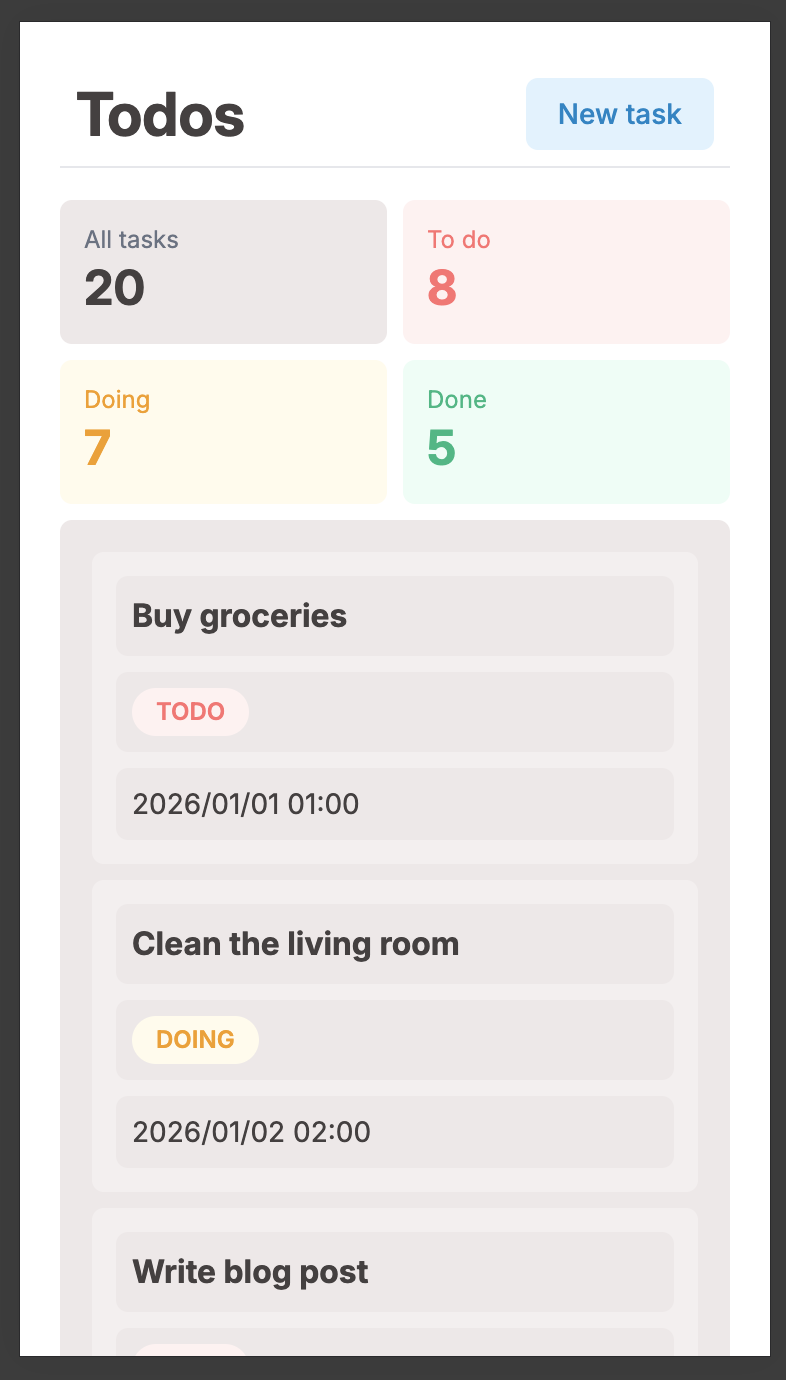
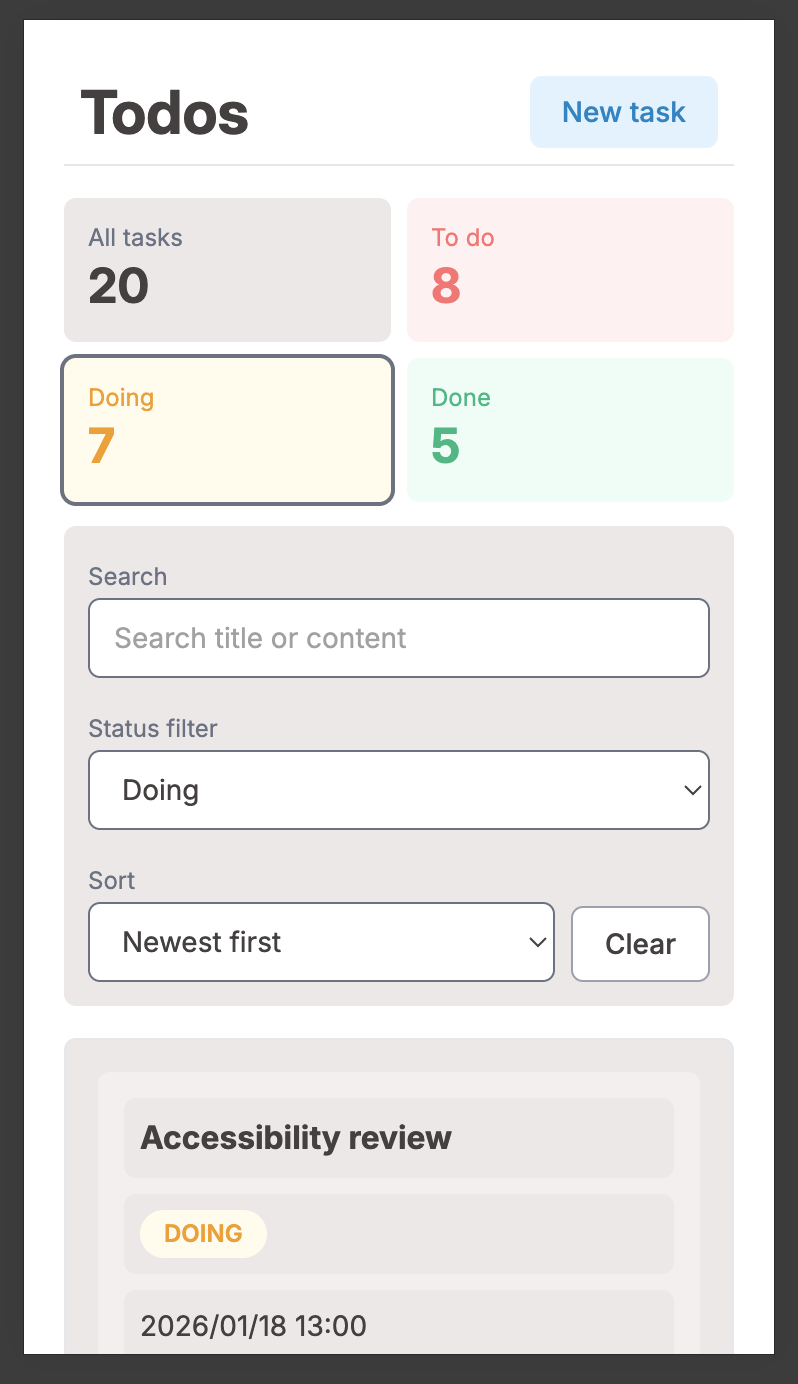
chore: update readme

diff --git a/docs/readme-ja.md b/docs/readme-ja.md
@@ -35,6 +35,7 @@ UIコンポーネントは再利用性を重視し、Storybookで開発・管理
 - Todoを表形式で一覧表示
 - ステータスごとに色分けラベル
 - 新規作成ボタンあり
+- 絞り込み機能あり（検索・ステータス・並び順）
 
 <img src="./images/todos_pc.png" width="700" />
 

diff --git a/README.md b/README.md
@@ -37,6 +37,7 @@ Reusable UI components are developed and tested in **Storybook** for scalability
 - Displays todos in a table format
 - Status is color-coded with labels
 - Includes a button to create a new todo
+- Includes filtering controls (search, status, and sort)
 
 <img src="./docs/images/todos_pc.png" width="700" />
 
